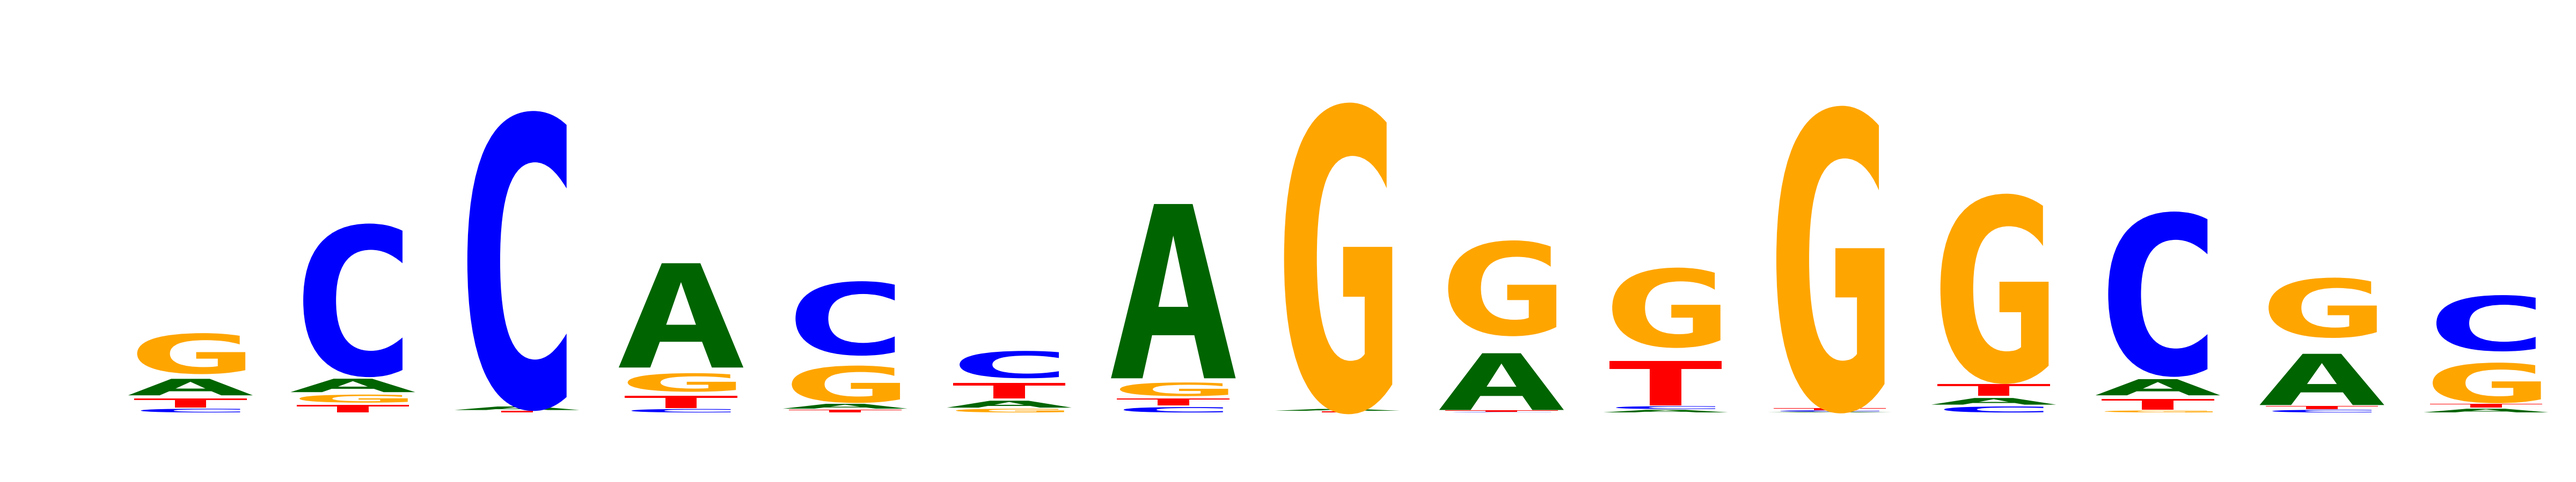
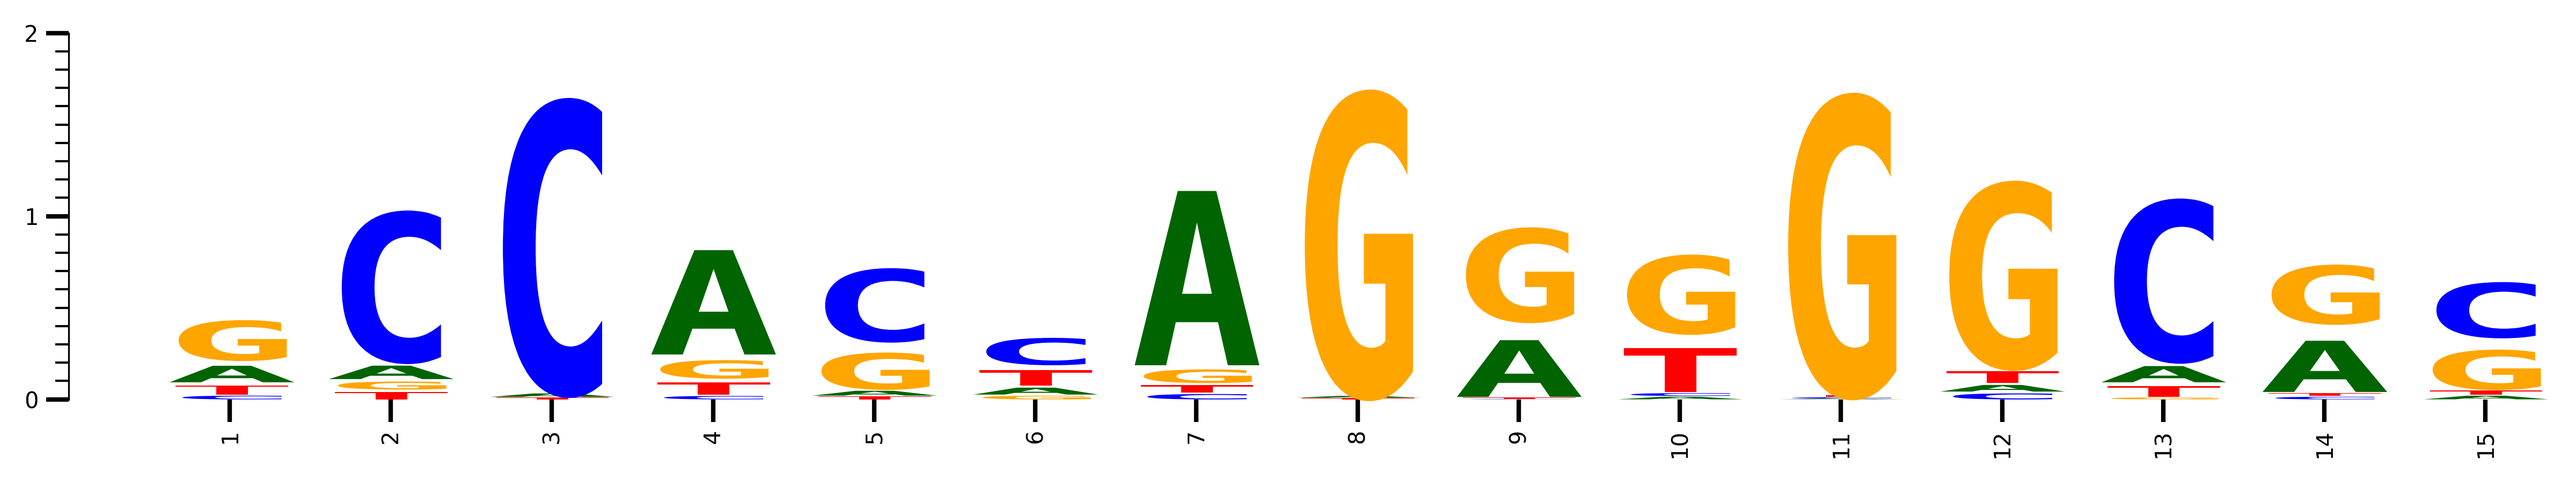
Bug fixed
convert_matrix_to_scores() fixed.

Changed region(s): [[0.0, 0.1867, 1.0, 0.8711], [0.0, 0.4356, 0.0312, 0.4667], [0.0, 0.0622, 0.0312, 0.0933]]

diff --git a/code/PIC.py b/code/PIC.py
@@ -36,7 +36,7 @@ def convert_matrix_to_scores(matrix):
             config.existing_characters.append(c)
 
     all_scores = []
-    for i in range(0,24):
+    for i in range(0,config.seq_length):
         scores = []
         for c in config.existing_characters:
             scores.append((str(c),matrix[config.charaters.index(c)][i]))
@@ -245,7 +245,7 @@ def main():
     '''
 
     plt.rcParams['figure.dpi'] = 300
-    fig, axarr = draw_logo(convert_count_to_scores(config.seq_counter),data_type='bits',seq_type=config.seq_type, yaxis='bits',colorscheme='hydrophobicity',draw_axis=True)
+    fig, axarr = draw_logo(convert_count_to_scores(config.seq_counter),colorscheme='hydrophobicity',draw_axis=True)
     fig.tight_layout()
     fig.savefig("without_PIC_bits.png")
     print("without_PIC_bits.png saved")
@@ -314,7 +314,7 @@ def main():
               ('C', 0.34070495229855319)]]
     
     plt.rcParams['figure.dpi'] = 300
-    fig, axarr = draw_logo(ALL_SCORES1)
+    fig, axarr = draw_logo(ALL_SCORES1,yaxis='bits',draw_axis=True)
     fig.tight_layout()
     fig.savefig('seq_ex.png')
     print('seq_ex.png saved')
